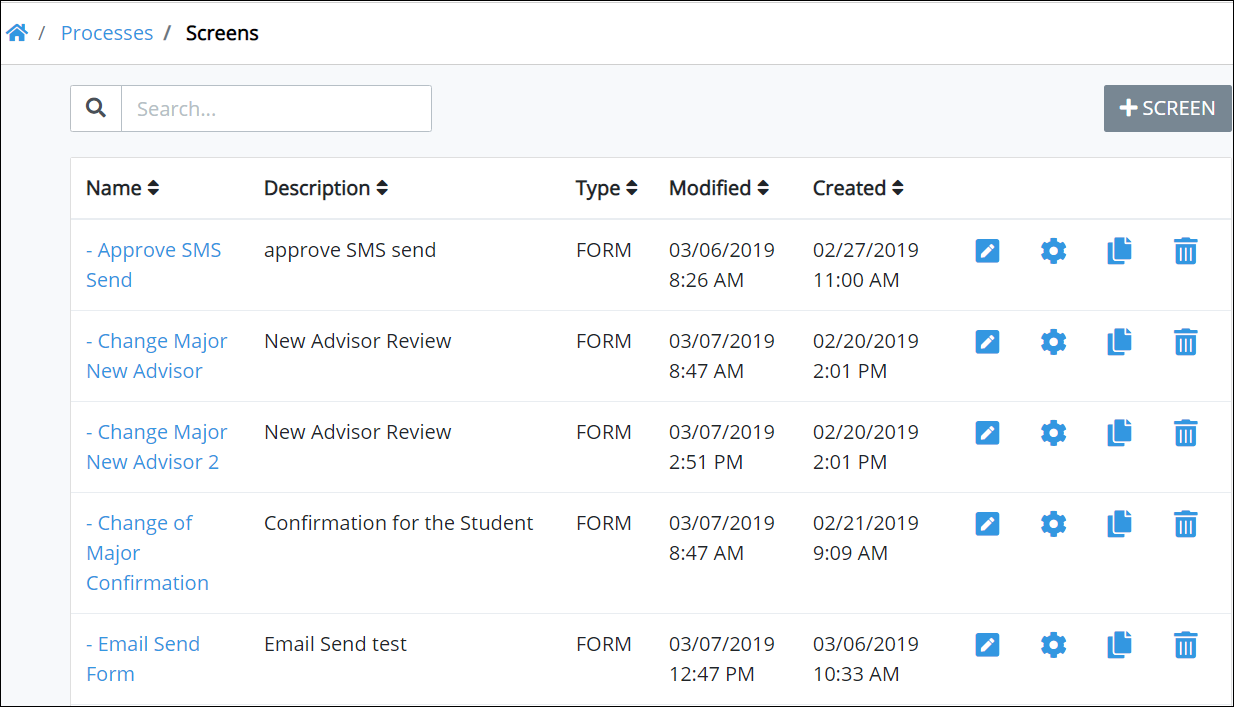
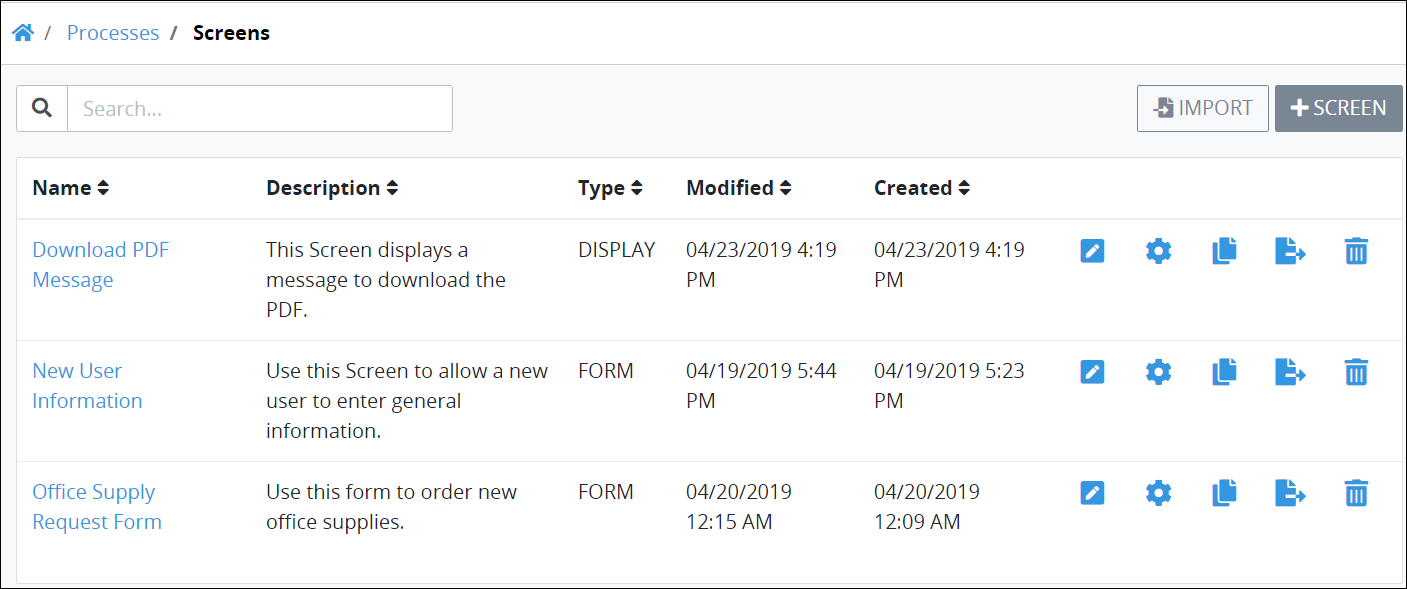
GitBook: [processmaker] 6 pages and one asset modified

diff --git a/designing-processes/scripts/manage-scripts/create-a-new-script.md b/designing-processes/scripts/manage-scripts/create-a-new-script.md
@@ -29,7 +29,7 @@ Follow these steps to create a new ProcessMaker Script:
 5. From the **Language** drop-down menu, select one of the following programming languages in which the ProcessMaker Script is written:
    * PHP
    * Lua
-6. From the **Run script as** drop-down menu, select which ProcessMaker user's API client authentication key to use with the ProcessMaker Script. This is a required field. Ensure that ProcessMaker user has the API client authentication key configured. See [Create a New Client Authentication Key](../../../processmaker-administration/auth-client-management/manage-client-authentications/create-a-new-client-authentication-key.md#create-a-client-authentication-key).
+6. From the **Run script as** drop-down menu, select which ProcessMaker user's API client authentication to use with the [ProcessMaker Spark REST API](https://develop-demo.bpm4.qa.processmaker.net/api/documentation). This is a required field. Ensure that ProcessMaker user authorization to access the ProcessMaker Spark REST API.
 7. In the **Timeout** field, use the slider control or enter how many seconds the ProcessMaker Script is allowed to run before it times out. Use `0` to indicate that the ProcessMaker Script never times out. The default timeout is **60** seconds. This is a required field.
 8. Click **Save**. Scripts Editor displays so you can develop your ProcessMaker Script. See [Scripts Editor](../scripts-editor.md).
 

diff --git a/designing-processes/scripts/manage-scripts/edit-script-configuration.md b/designing-processes/scripts/manage-scripts/edit-script-configuration.md
@@ -31,7 +31,7 @@ Follow these steps to configure a ProcessMaker Script:
 
      This is a required field.
 
-   * From the **Run script as** drop-down menu, select which ProcessMaker user's API client authentication key to use with the ProcessMaker Script. This is a required field. Ensure that ProcessMaker user has the API client authentication key configured. See [Create a New Client Authentication Key](../../../processmaker-administration/auth-client-management/manage-client-authentications/create-a-new-client-authentication-key.md#create-a-client-authentication-key).
+   * From the **Run script as** drop-down menu, select which ProcessMaker user's API client authentication to use with the [ProcessMaker Spark REST API](https://develop-demo.bpm4.qa.processmaker.net/api/documentation). This is a required field. Ensure that ProcessMaker user authorization to access the ProcessMaker Spark REST API.
    * In the **Description** field, edit the description of the ProcessMaker Script.
    * In the **Timeout** field, use the slider control or enter how many seconds the ProcessMaker Script is allowed to run before it times out. Use `0` to indicate that the ProcessMaker Script never times out. The default timeout is **60** seconds. This is a required field.
 4. Click **Save**.

diff --git a/designing-processes/design-forms/manage-forms/view-all-forms.md b/designing-processes/design-forms/manage-forms/view-all-forms.md
@@ -41,6 +41,10 @@ Use the [Search](search-for-a-screen.md#search-for-a-processmaker-screen) field 
 
 Click the **+Screen** button. See [Create a New Script](../../scripts/manage-scripts/create-a-new-script.md#create-a-new-processmaker-script).
 
+### Import a ProcessMaker Screen
+
+Click the **Import** button. See [Import a Screen](import-a-screen.md).
+
 ### Edit a ProcessMaker Screen
 
 Click the **Open Editor** icon![](../../../.gitbook/assets/edit-icon.png). See [Screens Builder](../screens-builder/) for topics.
@@ -52,6 +56,10 @@ Click the **Configure** icon![](../../../.gitbook/assets/configure-process-icon-
 ### Duplicate a ProcessMaker Screen
 
 Click the **Duplicate** icon![](../../../.gitbook/assets/duplicate-script-processes.png). See [Duplicate a Screen](duplicate-a-screen.md#duplicate-a-processmaker-screen).
+
+### Export a ProcessMaker Screen
+
+Click the **Export** icon![](../../../.gitbook/assets/export-process-icon-processes.png). See [Export a Screen](export-a-screen.md).
 
 ### Delete a ProcessMaker Screen
 

diff --git a/SUMMARY.md b/SUMMARY.md
@@ -61,9 +61,11 @@
   * [Manage Screens](designing-processes/design-forms/manage-forms/README.md)
     * [View All Screens](designing-processes/design-forms/manage-forms/view-all-forms.md)
     * [Create a New Screen](designing-processes/design-forms/manage-forms/create-a-new-form.md)
+    * [Import a Screen](designing-processes/design-forms/manage-forms/import-a-screen.md)
     * [Search for a Screen](designing-processes/design-forms/manage-forms/search-for-a-screen.md)
     * [Configure a Screen](designing-processes/design-forms/manage-forms/edit-a-screen.md)
     * [Duplicate a Screen](designing-processes/design-forms/manage-forms/duplicate-a-screen.md)
+    * [Export a Screen](designing-processes/design-forms/manage-forms/export-a-screen.md)
     * [Delete a Screen](designing-processes/design-forms/manage-forms/remove-a-screen.md)
   * [Screens Builder](designing-processes/design-forms/screens-builder/README.md)
     * [What is Screens Builder?](designing-processes/design-forms/screens-builder/what-is-screens-builder.md)

diff --git a/designing-processes/design-forms/manage-forms/import-a-screen.md b/designing-processes/design-forms/manage-forms/import-a-screen.md
@@ -1,0 +1,6 @@
+---
+description: Import a ProcessMaker Screen that has previously been exported.
+---
+
+# Import a Screen
+

diff --git a/designing-processes/design-forms/manage-forms/export-a-screen.md b/designing-processes/design-forms/manage-forms/export-a-screen.md
@@ -1,0 +1,6 @@
+---
+description: Export a ProcessMaker Screen.
+---
+
+# Export a Screen
+
